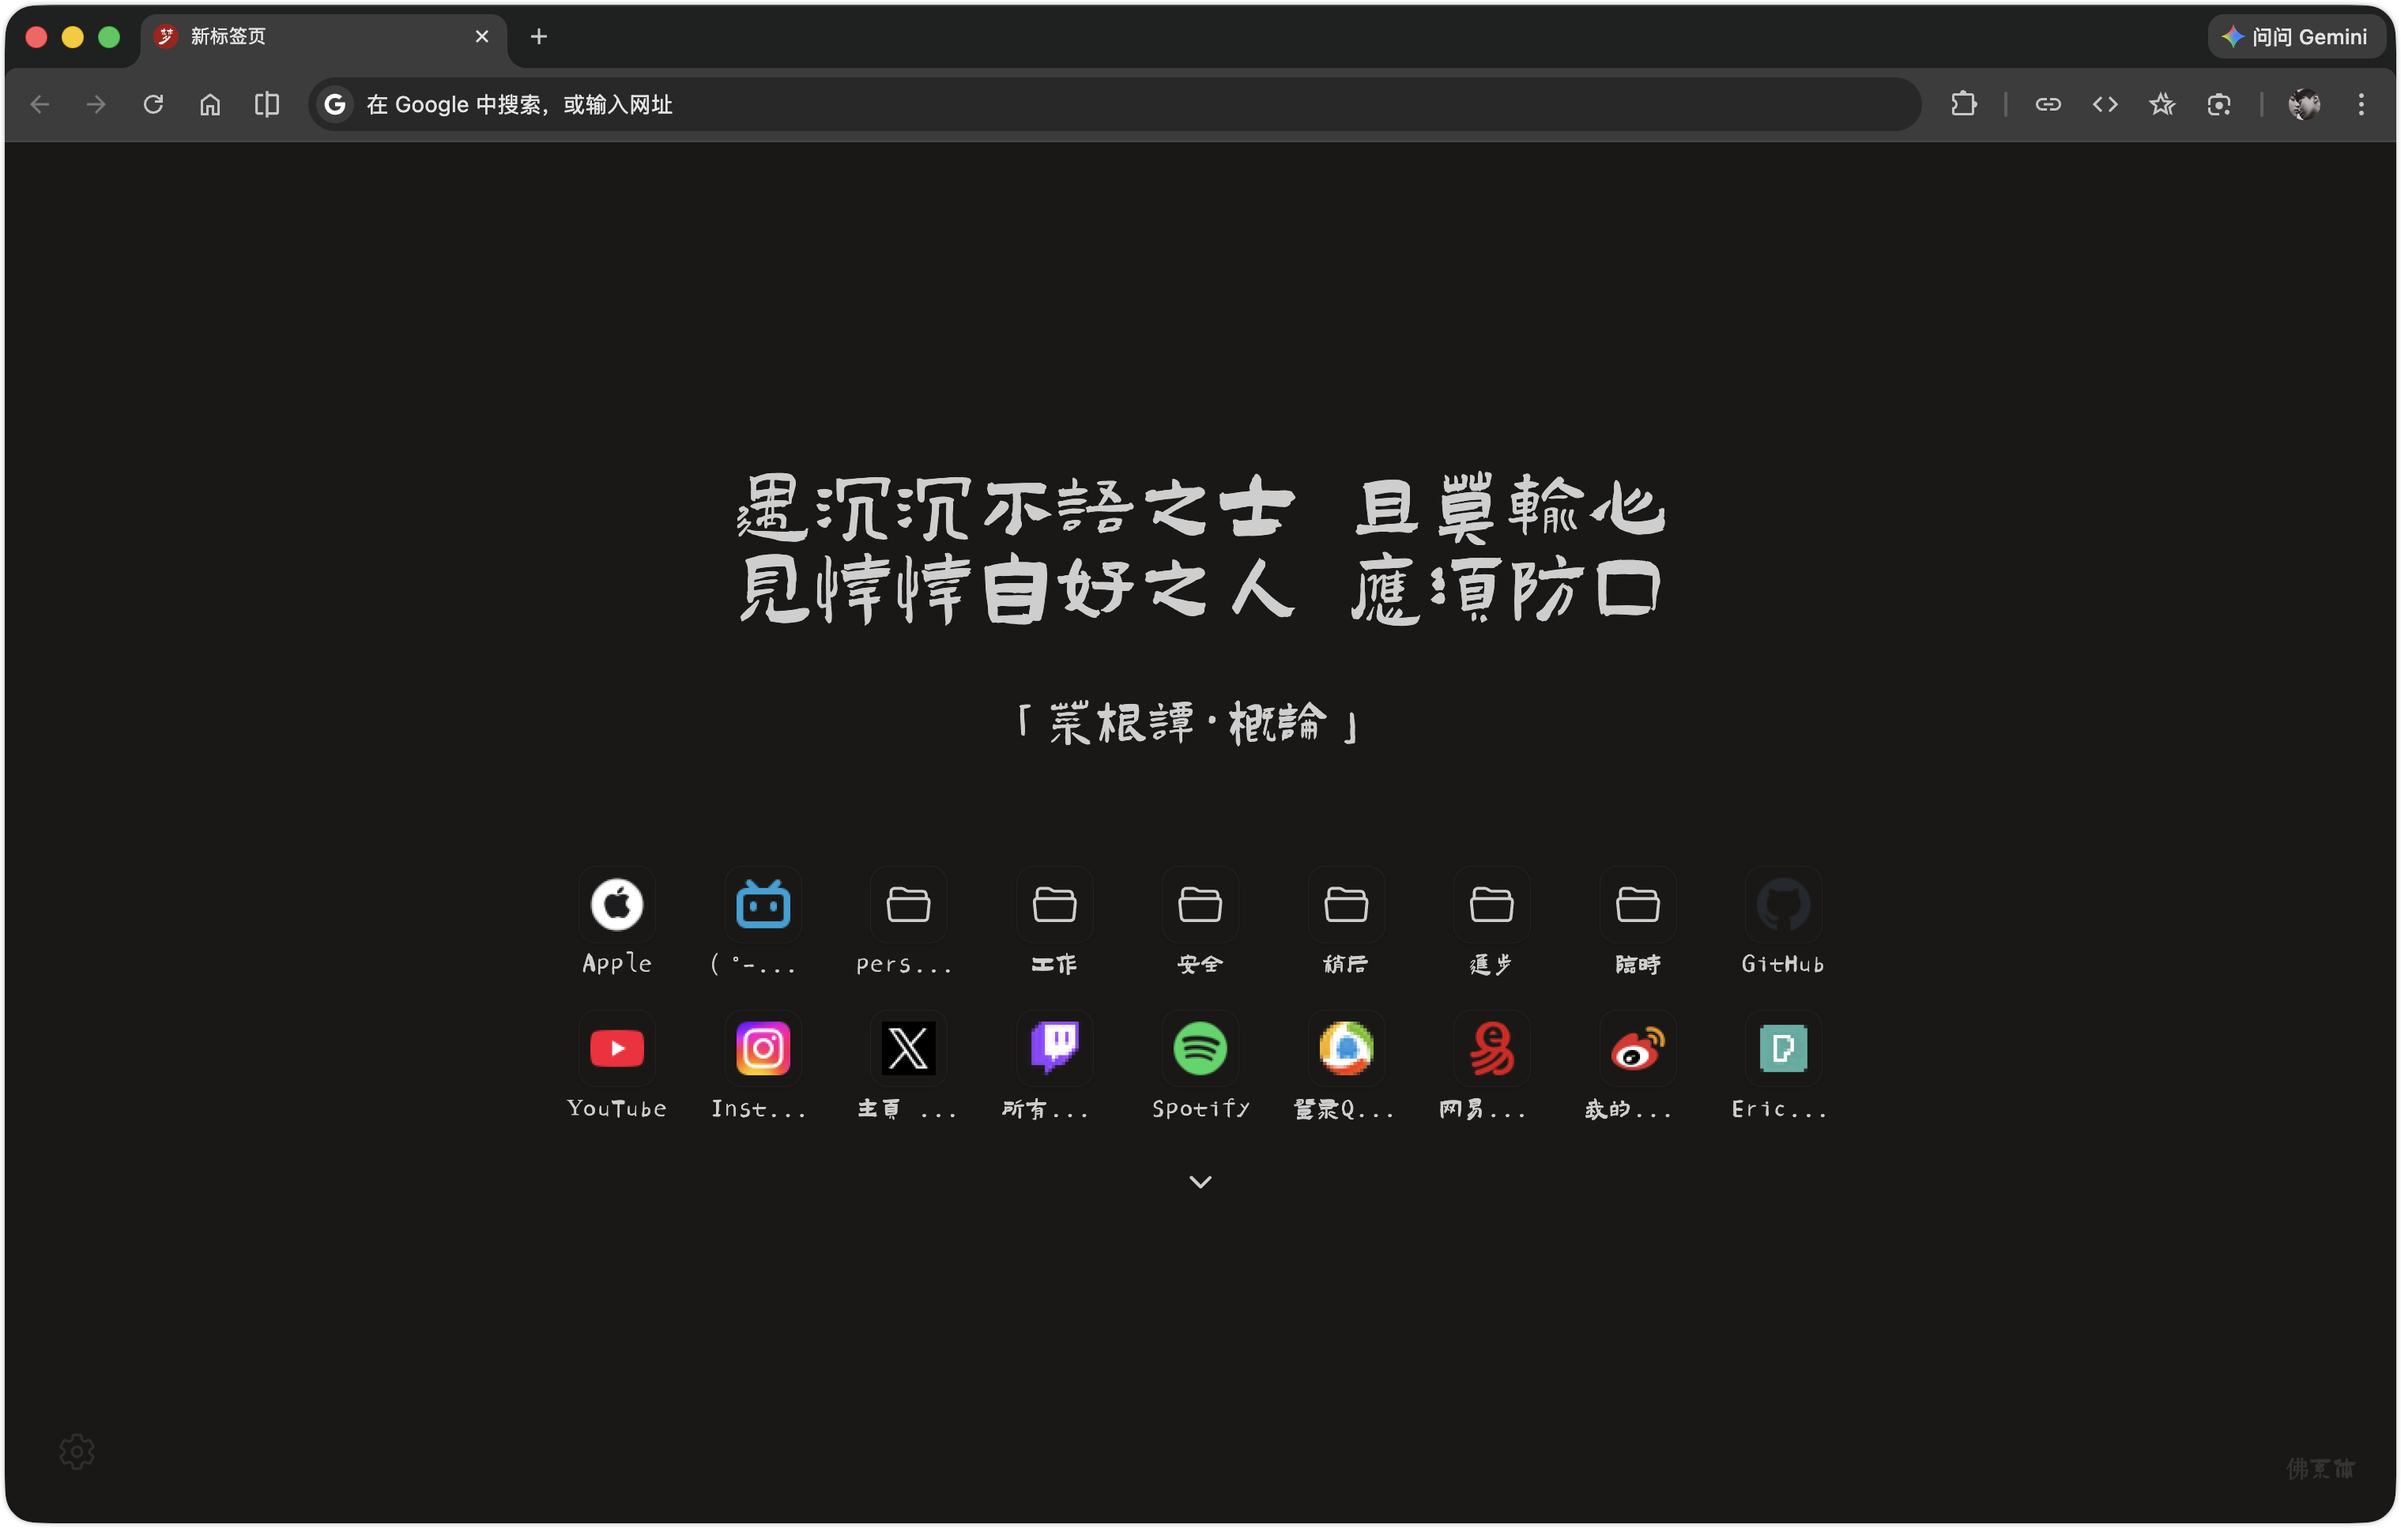
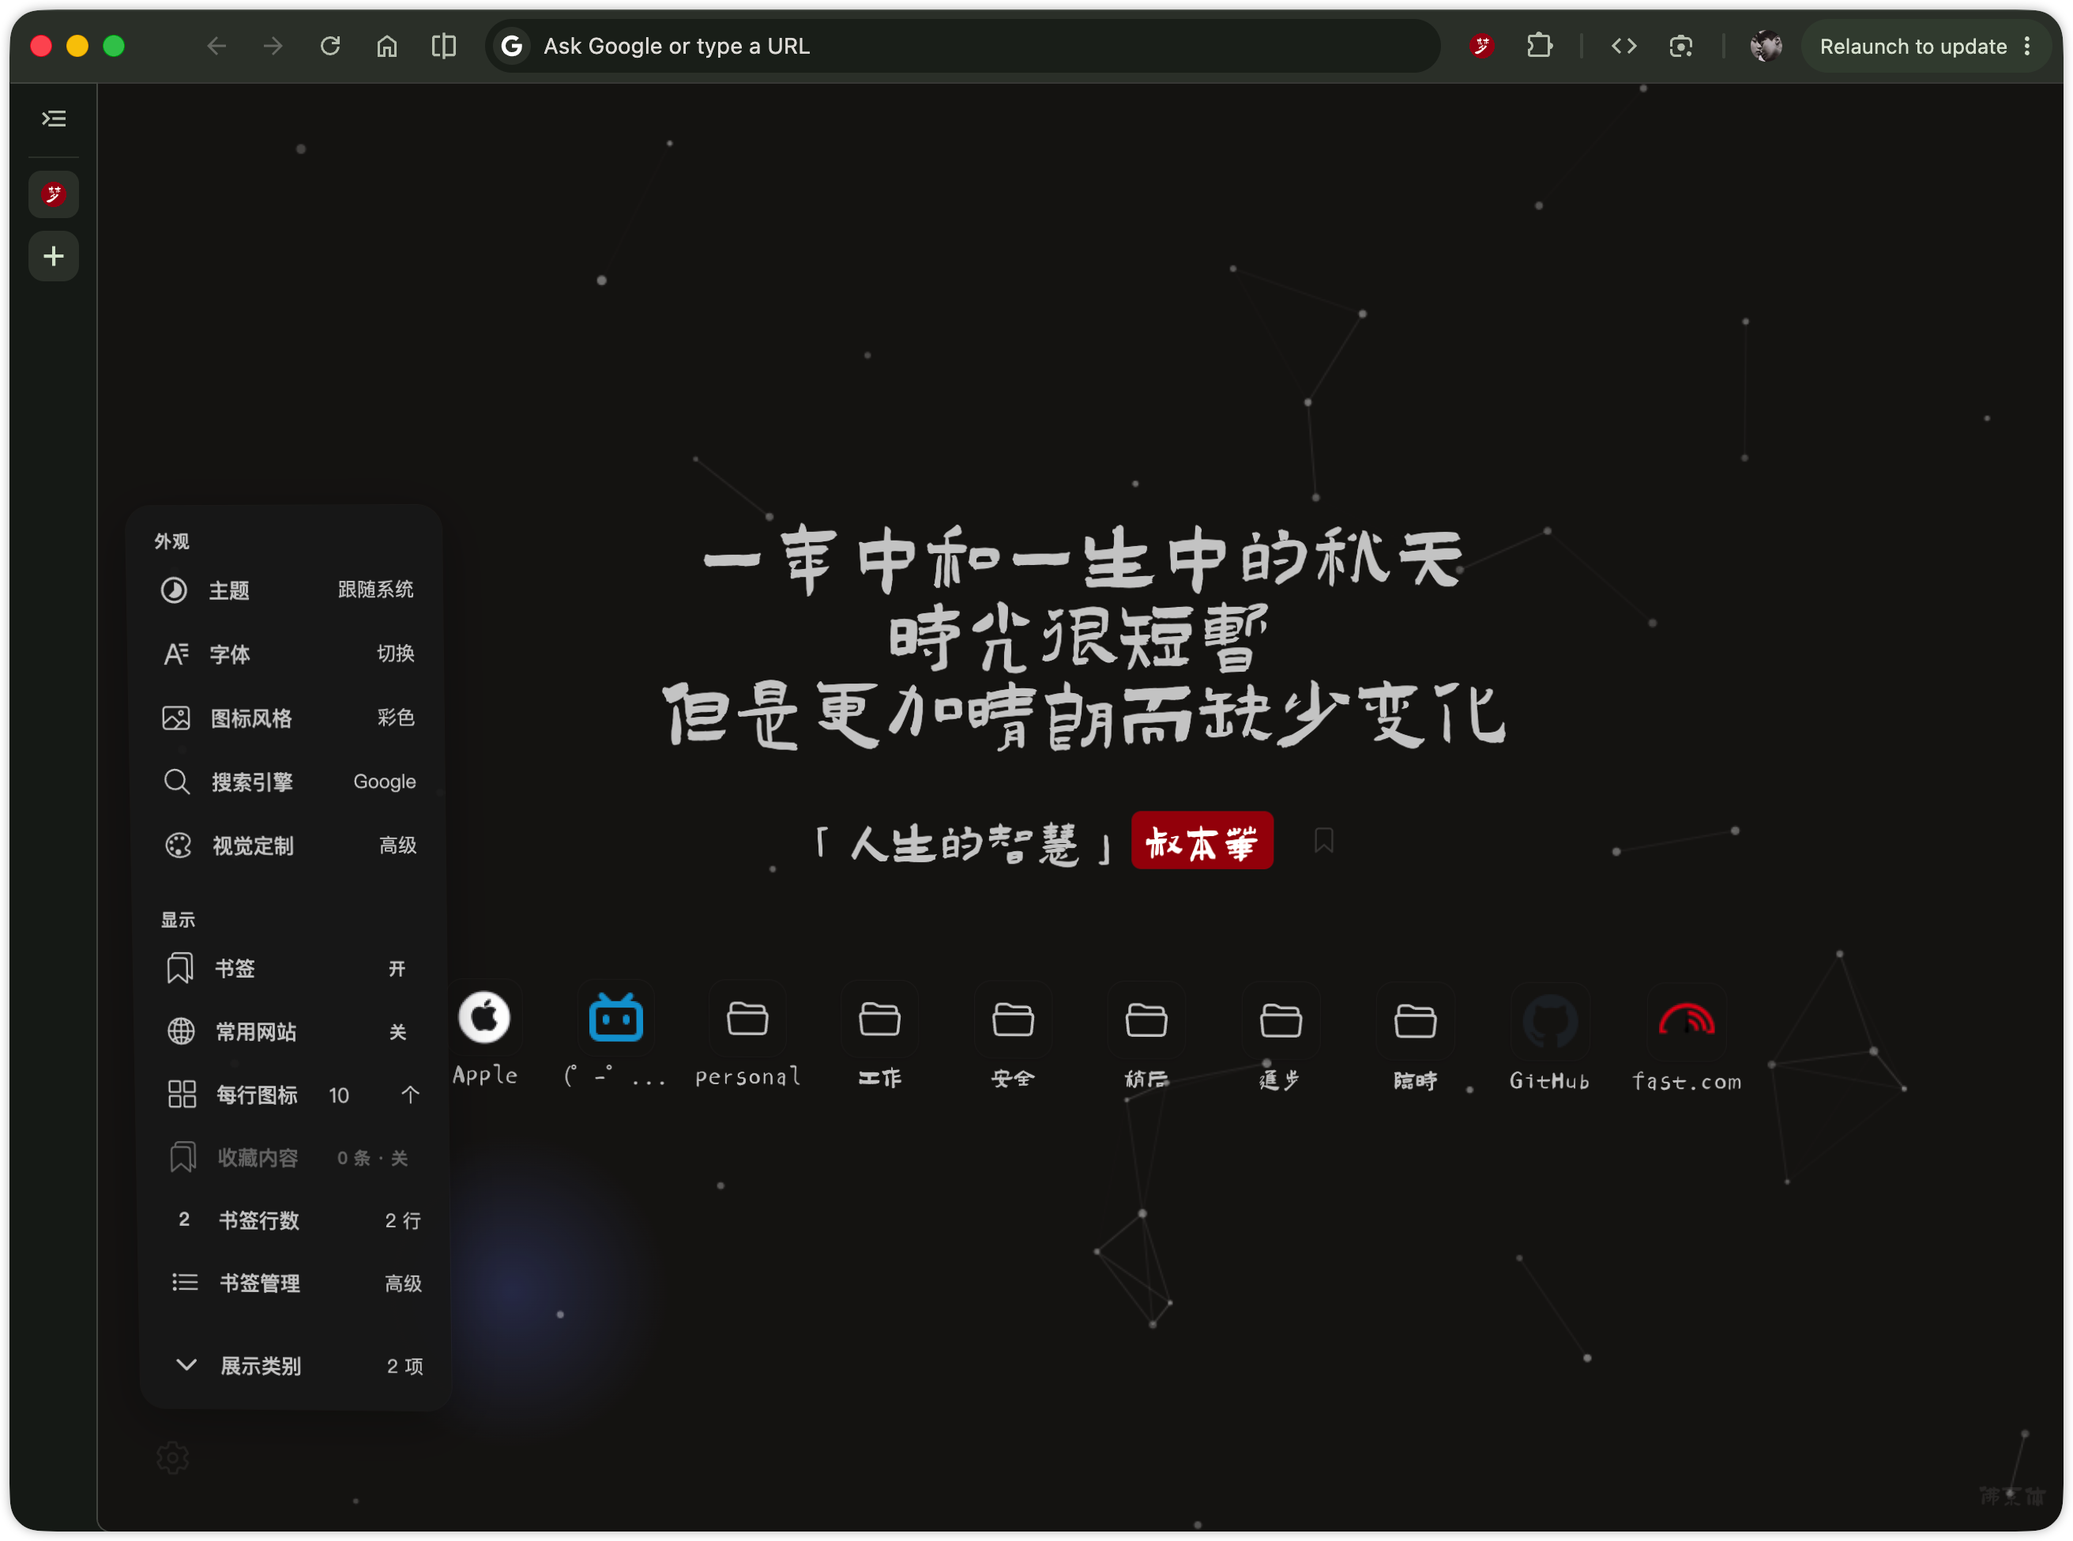
fix: render settings text reliably

diff --git a/src/pages/newtab/App.css b/src/pages/newtab/App.css
@@ -120,7 +120,8 @@
   min-width: 200px;
   padding: 0.5rem;
   border-radius: 1rem;
-  font-family: "LXGW WenKai Light", 楷体, serif;
+  /* 设置菜单使用系统中文 UI 字体，避免裁剪展示字体缺字影响功能文案。 */
+  font-family: "PingFang SC", "Microsoft YaHei", "Noto Sans CJK SC", "Hiragino Sans GB", sans-serif;
   background-color: rgba(255, 255, 255, 0.88);
   backdrop-filter: blur(24px) saturate(1.6);
   -webkit-backdrop-filter: blur(24px) saturate(1.6);

diff --git a/README.md b/README.md
@@ -14,7 +14,11 @@
   <a href="#使用说明">使用说明</a>
 </p>
 
-![Oneiro 新标签页预览](preview/chrome_light.png)
+## 预览
+
+![Oneiro 浅色主题](preview/chrome_light.png)
+
+![Oneiro 深色主题](preview/chrome_dark.png)
 
 ## 功能
 
@@ -85,6 +89,11 @@ pnpm dev
 技术栈：WXT、React、Tailwind CSS 4、DaisyUI。
 
 ## 更新
+
+### v2.4.1
+
+- 修复设置菜单部分中文在裁剪字体下显示异常的问题。
+- 更新浅色与深色主题预览图。
 
 ### v2.4.0
 
